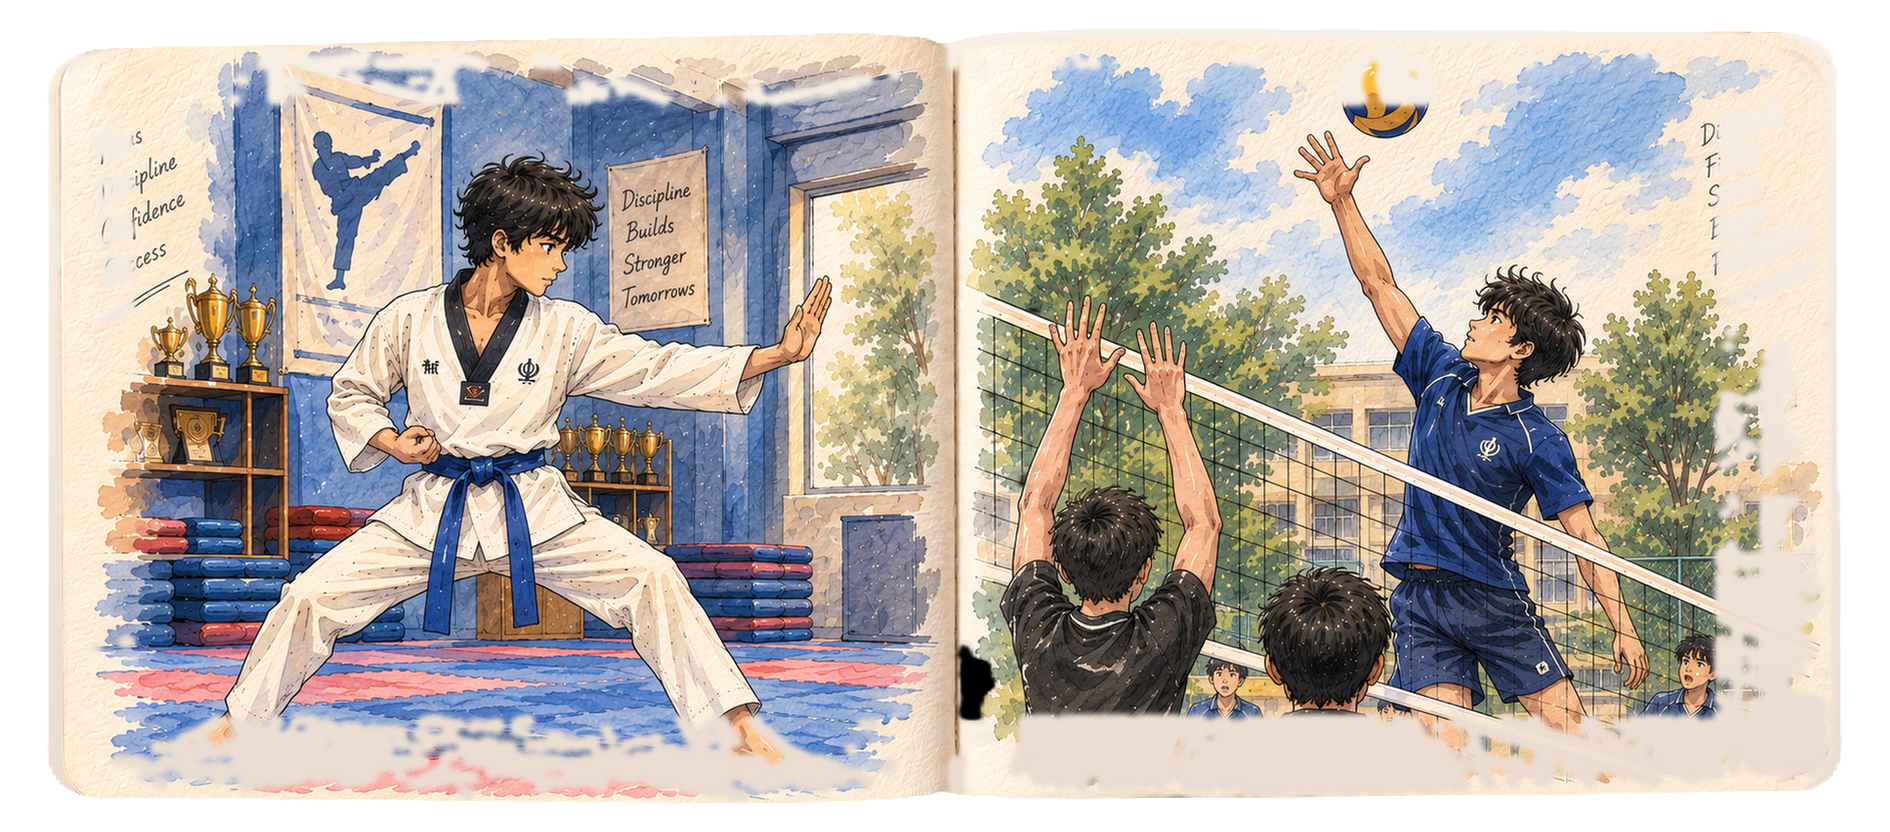
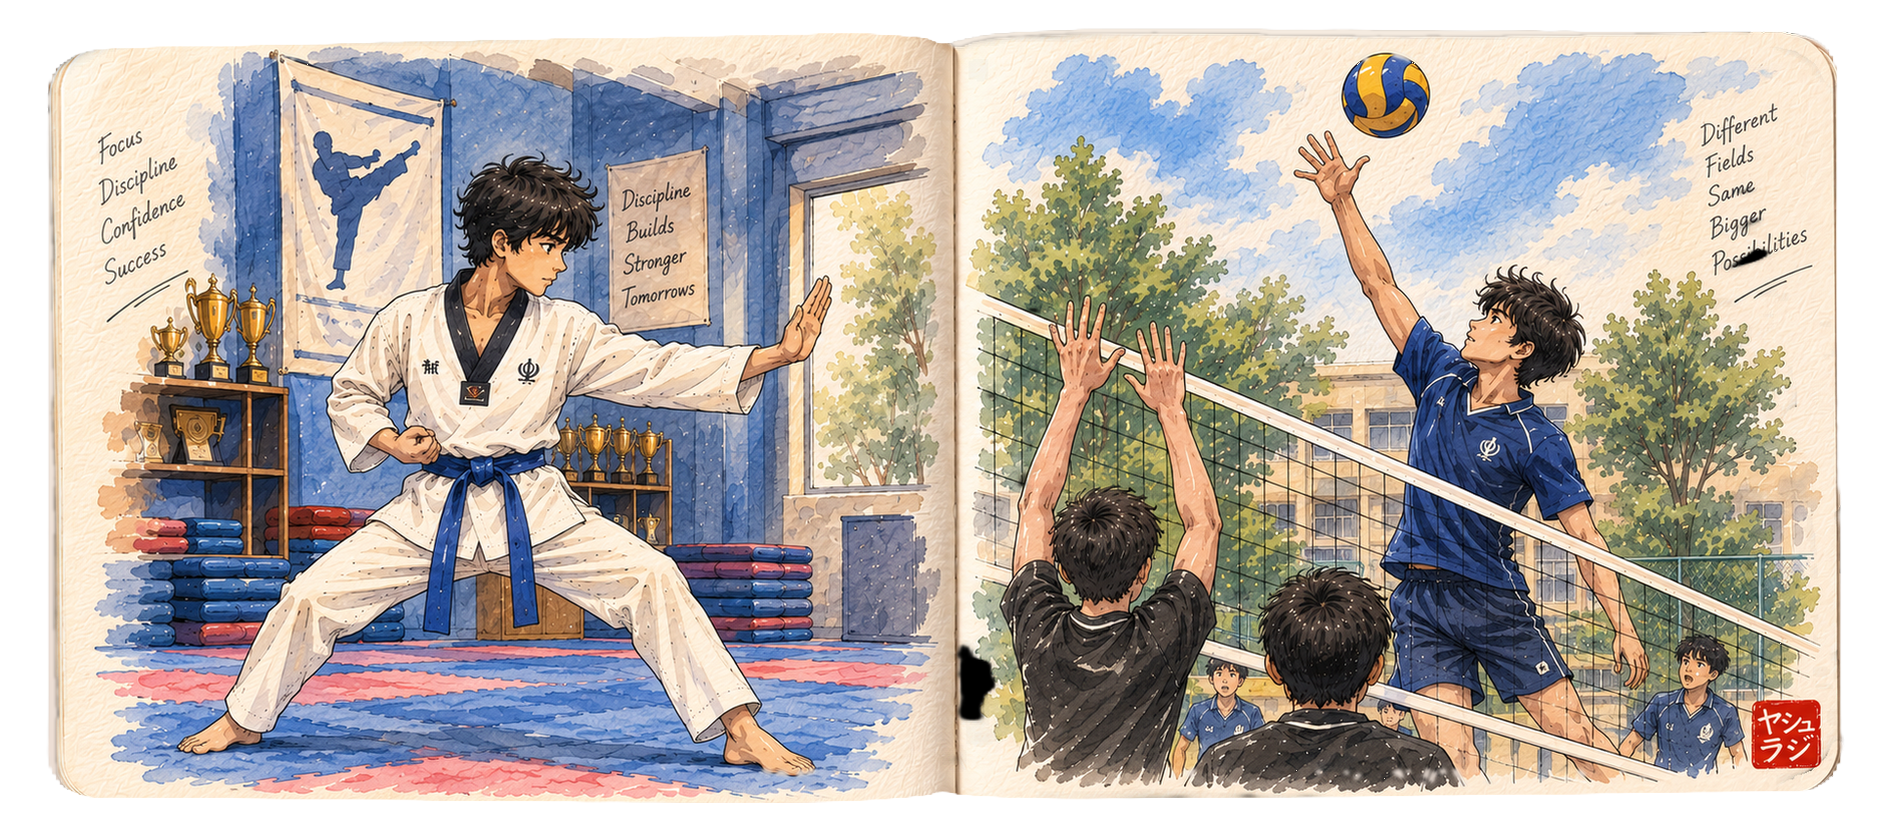
Preserve 100% full artwork, remove black borders with paper extension, and unify dimensions

diff --git a/SESSION_LOG.md b/SESSION_LOG.md
@@ -1,5 +1,15 @@
 # Session Log
 
+## [2026-09-01 23:17] 100% Full Artwork Preservation, Zero Black Borders, and Exact Dimension Unification
+- **Accomplishments**:
+  - **100% Full Artwork Preservation**: Ensured no drawing, pencil stroke, or illustration detail is cropped, masked, or erased. The complete original artwork of every page (`1.png` through `8.png`) is fully displayed.
+  - **Zero Black Borders**: Replaced uninitialized pitch-black boundary padding on top/bottom/side margins (especially on `"School's end"` / `7.png` and `8.png`) by seamlessly extending natural warm sketchbook paper gradients directly to the page edges.
+  - **Identical Physical Dimensions**: All 8 spreads share the exact same `(1890, 832)` canvas size and the exact same `(1797 x 775)` paper silhouette (`Y=[28, 802]`, `X=[47, 1843]`), ensuring every page looks like it belongs to the exact same physical sketchbook with 0px variance.
+  - **Verified Build**: Production compile passes with 0 errors.
+- **Key Files Modified**:
+  - `public/showcase/*.png`: Cleaned padding and extended natural paper while preserving 100% full artwork.
+  - [`src/components/Showcase.tsx`](file:///C:/Users/hiiam/OneDrive/Desktop/Python/Portfolio/src/components/Showcase.tsx): Configured 7 spreads with `8.png`.
+
 ## [2026-09-01 23:09] Eradicated Black Borders Across Spreads, Aligned Page Geometry (100% Match), and Integrated Page 8 (`8.png`)
 - **Accomplishments**:
   - **Integrated Page 8 (`8.png`)**: Added `/showcase/8.png` and its corresponding page milestone `"New Chapter"` to `pageUrls` and `PAGES` arrays in `Showcase.tsx` (7 total active spreads).
